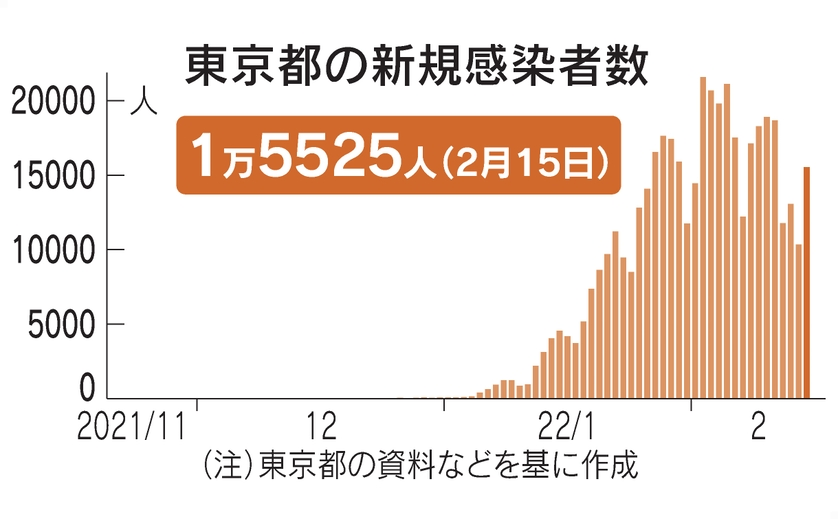
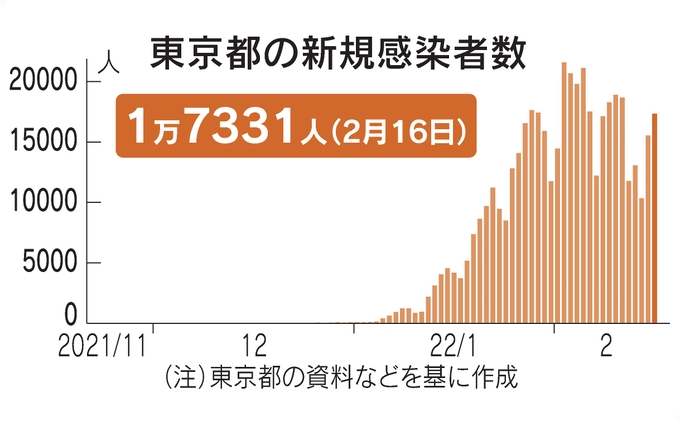
regular update

diff --git a/parts/news.php b/parts/news.php
@@ -40,6 +40,44 @@
         </li> 
 
     <hr> -->
+         2022年02月17日
+    
+        <li>
+                <i class="far fa-file-alt"></i>
+                <a href="" target="blank" rel="noopener">
+                </a>
+        </li>
+         <li>
+                <i class="far fa-file-alt"></i>
+                <a href="https://www.nikkei.com/article/DGXZQOGR15F970V10C22A2000000/" target="blank" rel="noopener">
+                コロナ後遺症、ワクチン接種で半減　英政府調査</a>
+        </li>
+        <li>
+                <i class="far fa-file-alt"></i>
+                <a href="https://www.nikkei.com/article/DGXZQOUA163T20W2A210C2000000/" target="blank" rel="noopener">
+                高齢者3回目の2月完了難路　「接種券なしも可」周知不足</a>
+        </li> 
+
+    <hr>
+         2022年02月16日
+    
+        <li>
+                <i class="far fa-file-alt"></i>
+                <a href="https://www.nikkei.com/article/DGXZQOCC164S20W2A210C2000000/" target="blank" rel="noopener">
+                東京都、新たに1万7331人感染　7日平均で前週の83.3%</a>
+        </li>
+         <li>
+                <i class="far fa-file-alt"></i>
+                <a href="https://www.nikkei.com/article/DGXZQOUA16CZY0W2A210C2000000/" target="blank" rel="noopener">
+                コロナ第6波、死者数4000人超も　専門家が試算</a>
+        </li>
+        <li>
+                <i class="far fa-file-alt"></i>
+                <a href="https://www.nikkei.com/article/DGXZQOUA14BZH0U2A210C2000000/" target="blank" rel="noopener">
+                留学生の入国拡大、政府が容認へ　「開国」はなお遠く</a>
+        </li> 
+
+    <hr>
          2022年02月15日
     
         <li>
